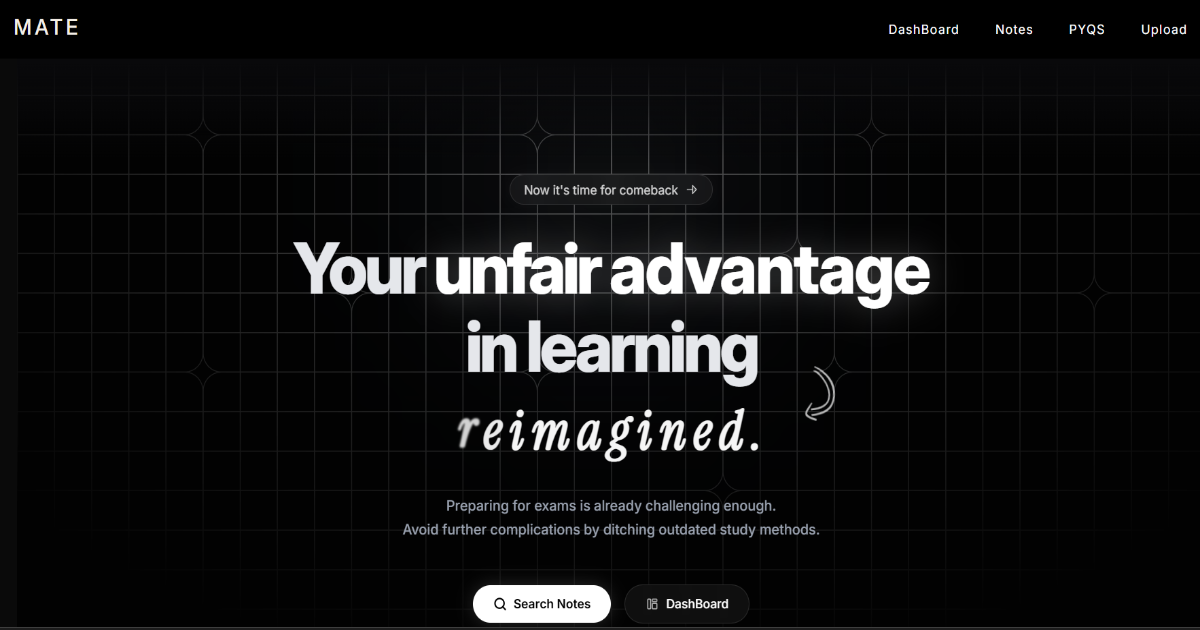
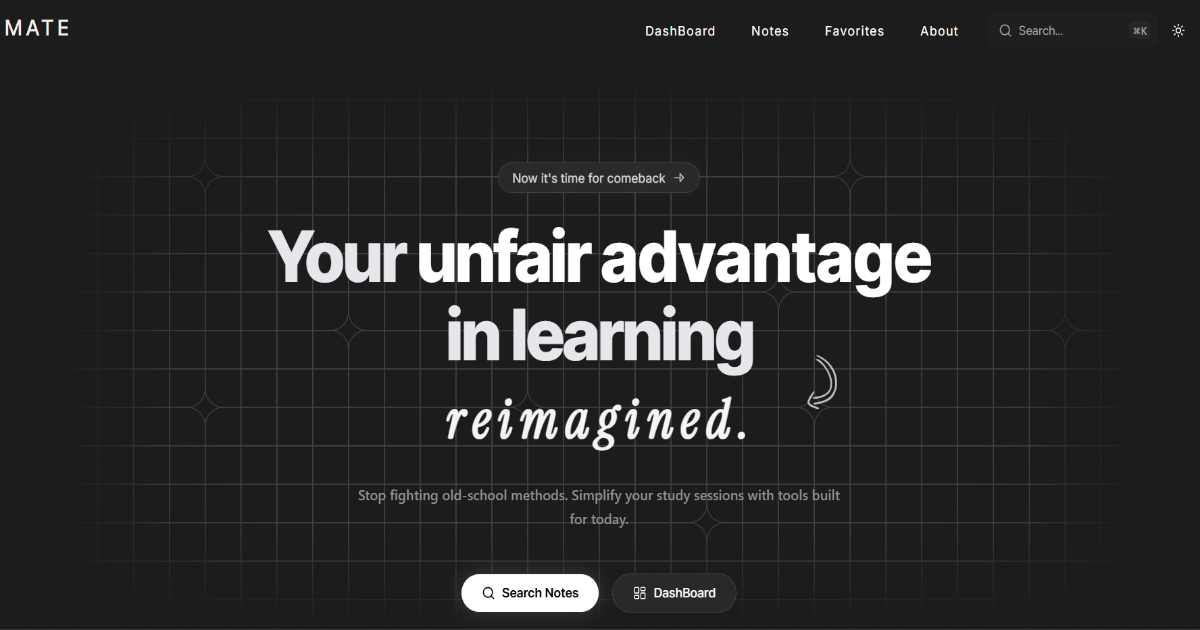
some meta data Images added

diff --git a/api/preview.js b/api/preview.js
@@ -14,22 +14,55 @@ export default function handler(req, res) {
         
         let htmlString = fs.readFileSync(htmlPath, 'utf-8');
 
-        // 2. Extract the ID natively from the URL or query params
+        // 2. Identify the route being previewed
+        const pathParam = req.query?.path || '';
         const subjectId = req.query?.id || req.url.split('?')[0].split('/').pop();
 
-        const data = localNotes; 
-        const subject = data.find((item) => item.id === subjectId) || {};
+        // 3. Set default fallbacks
+        let title = "MATE — The Next-Gen Academic Hub";
+        let description = "Step into the future of learning with MATE. Your seamlessly designed, all-in-one platform for premium study materials, syllabus tracking, and past year papers—built to supercharge your college journey.";
+        let url = "https://mate-three-rho.vercel.app/";
+        let imageUrl = "https://mate-three-rho.vercel.app/Preview.png";
 
-        // 3. Fallbacks
-        const title = subject.title ? `${subject.title} | MATE` : "MATE | Your College Notes";
-        const description = subject.description || "Get all your college syllabus, notes, and pyq in one click!";
-        const url = `https://mate-three-rho.vercel.app/subject/${subjectId}`;
-        
-        // Use the first file's image as the subject's Open Graph image, or fallback to the default Preview
-        const firstFile = subject.files && subject.files.length > 0 ? subject.files[0] : null;
-        const imageUrl = firstFile ? firstFile.imageUrl : "https://mate-three-rho.vercel.app/Preview.png";
+        // 4. Assign custom metadata based on route
+        if (pathParam === 'subject' && subjectId) {
+            const subject = localNotes.find((item) => item.id === subjectId) || {};
+            title = subject.title ? `${subject.title} | MATE` : title;
+            description = subject.description || description;
+            url = `https://mate-three-rho.vercel.app/subject/${subjectId}`;
+            
+            const firstFile = subject.files && subject.files.length > 0 ? subject.files[0] : null;
+            
+            if (subject.previewImage) {
+                // If you manually specify a previewImage in localNotes.js for the subject
+                imageUrl = subject.previewImage.startsWith('http') ? subject.previewImage : `https://mate-three-rho.vercel.app${subject.previewImage}`;
+            } else if (firstFile && firstFile.imageUrl) {
+                // Fallback to the thumbnail of the first file in the subject
+                imageUrl = firstFile.imageUrl;
+            }
+        } else if (pathParam) {
+            // Configuration for all other static pages
+            const pagesConfig = {
+                'dashboard': { title: "Your Command Center | MATE", desc: "Take control of your academic life. Track your progress, resume recent subjects, and dive back into a distraction-free study environment tailored just for you.", img: "https://mate-three-rho.vercel.app/DashboardPreview.png" },
+                'notes': { title: "The Knowledge Vault | MATE", desc: "Explore an expansive library of meticulously curated notes, slide decks, and previous year question papers. Everything you need to ace your exams, beautifully organized.", img: "https://mate-three-rho.vercel.app/NotesPreview.png" },
+                'favorites': { title: "Your Curated Collection | MATE", desc: "Access your most crucial study assets instantly. A personalized space for your saved notes and essential materials, ready whenever inspiration strikes.", img: "https://mate-three-rho.vercel.app/FavoritesPreview.png" },
+                'about': { title: "Our Vision | MATE", desc: "Discover the mission behind MATE. We're rethinking how students interact with their curriculum by blending premium design with unparalleled academic utility.", img: "https://mate-three-rho.vercel.app/AboutPreview.png" },
+                'contact': { title: "Let's Connect | MATE", desc: "Have questions or feedback? Reach out to the MATE team. We are constantly evolving to build the ultimate academic operating system with your input.", img: "https://mate-three-rho.vercel.app/ContactPreview.png" },
+                'upload': { title: "Contribute to the Legacy | MATE", desc: "Help shape the future of learning. Upload and share your high-quality study materials to empower the community and build an unparalleled knowledge base.", img: "https://mate-three-rho.vercel.app/UploadPreview.png" }
+            };
+            
+            const config = pagesConfig[pathParam];
+            if (config) {
+                title = config.title;
+                description = config.desc;
+                url = `https://mate-three-rho.vercel.app/${pathParam}`;
+                if (config.img) {
+                    imageUrl = config.img;
+                }
+            }
+        }
 
-        // 4. Swap Strings globally to cover both og:* and twitter:* tags
+        // 5. Swap Strings globally to cover both og:* and twitter:* tags
         htmlString = htmlString
             .replace(/content="MATE \| Your College Notes"/g, `content="${title}"`)
             .replace(/content="Get all your college syllabus, notes, and pyq in one click!"/g, `content="${description}"`)

diff --git a/index.html b/index.html
@@ -3,15 +3,15 @@
 
 <head>
   <meta charset="UTF-8" />
-  <meta property="og:title" content="MATE | Your College Notes" />
-  <meta property="og:description" content="Get all your college syllabus, notes, and pyq in one click!" />
+  <meta property="og:title" content="MATE — Your All in One Study Companion" />
+  <meta property="og:description" content="Step into the future of learning with MATE. Your seamlessly designed, all-in-one platform for premium study materials, syllabus tracking, and past year papers—built to supercharge your college journey." />
   <meta property="og:image" content="https://mate-three-rho.vercel.app/Preview.png" />
   <meta property="og:url" content="https://mate-three-rho.vercel.app/" />
   <meta property="og:type" content="website" />
 
   <meta property="twitter:card" content="summary_large_image" />
-  <meta property="twitter:title" content="MATE | Your College Notes" />
-  <meta property="twitter:description" content="Get all your college syllabus, notes, and pyq in one click!" />
+  <meta property="twitter:title" content="MATE — Your All in One Study Companion" />
+  <meta property="twitter:description" content="Step into the future of learning with MATE. Your seamlessly designed, all-in-one platform for premium study materials, syllabus tracking, and past year papers—built to supercharge your college journey." />
   <meta property="twitter:image" content="https://mate-three-rho.vercel.app/Preview.png" />
 
 

diff --git a/vite.config.js b/vite.config.js
@@ -24,7 +24,7 @@ export default defineConfig({
       theme_color: '#1c1c1c',
       background_color: '#1c1c1c',
       display: 'standalone',
-      description: 'Make your notes, PYQs, and study materials — all in one place.',
+      description: 'Step into the future of learning with MATE. Your seamlessly designed, all-in-one platform for premium study materials, syllabus tracking, and past year papers—built to supercharge your college journey.',
       categories: ['education', 'productivity'],
 
       screenshots: [
